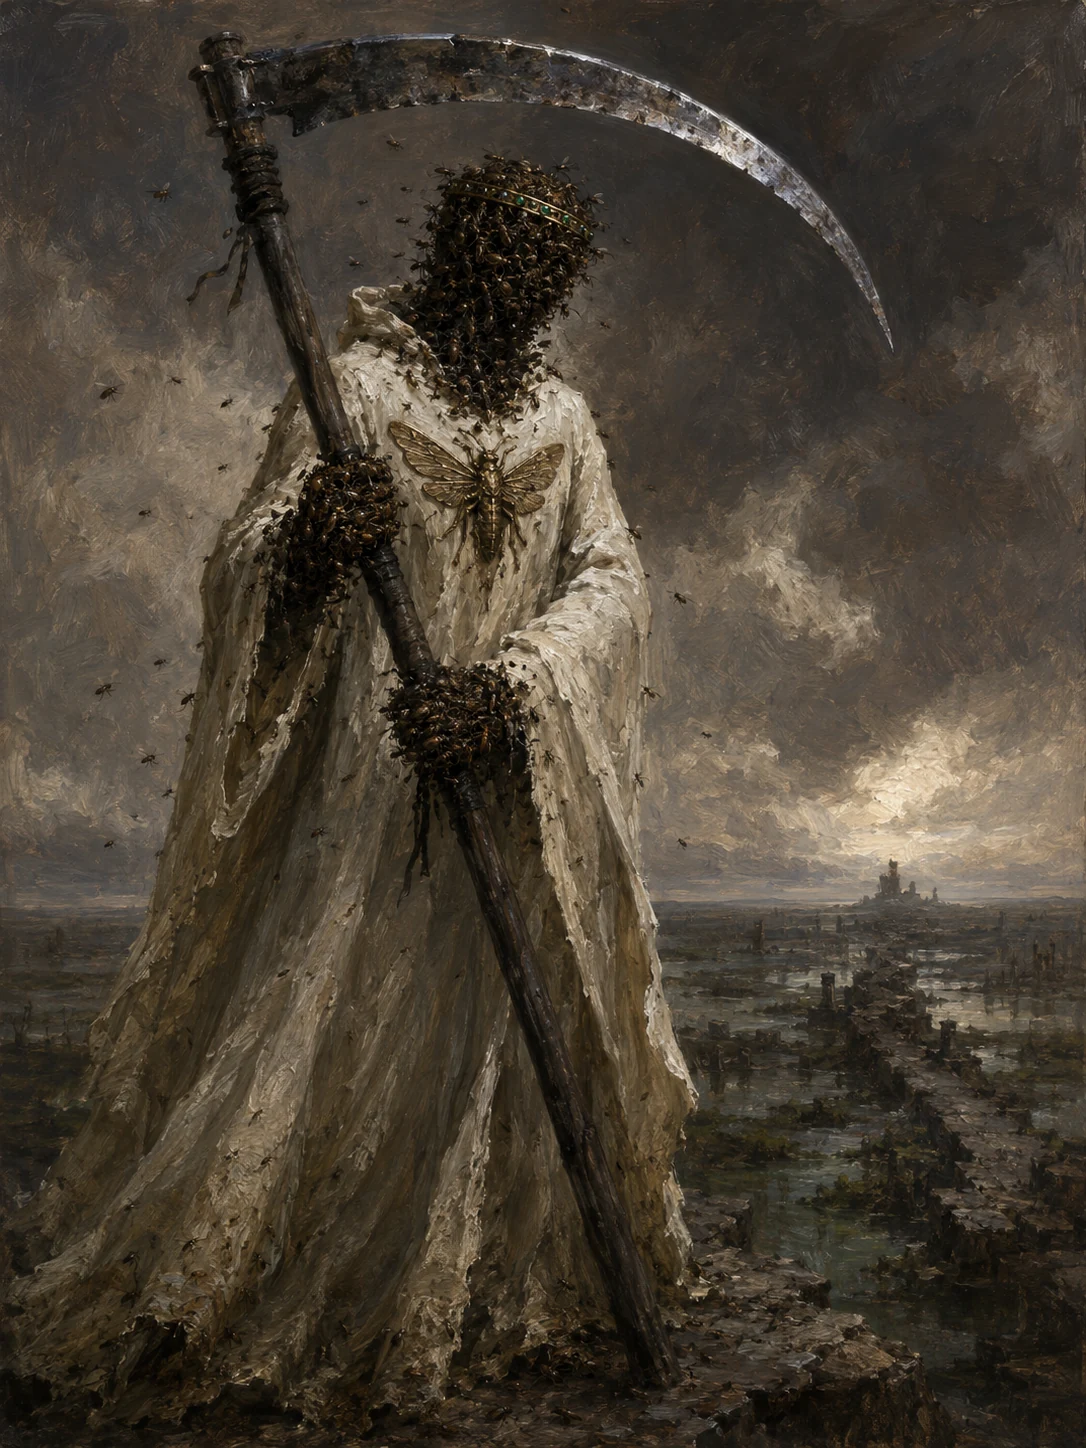
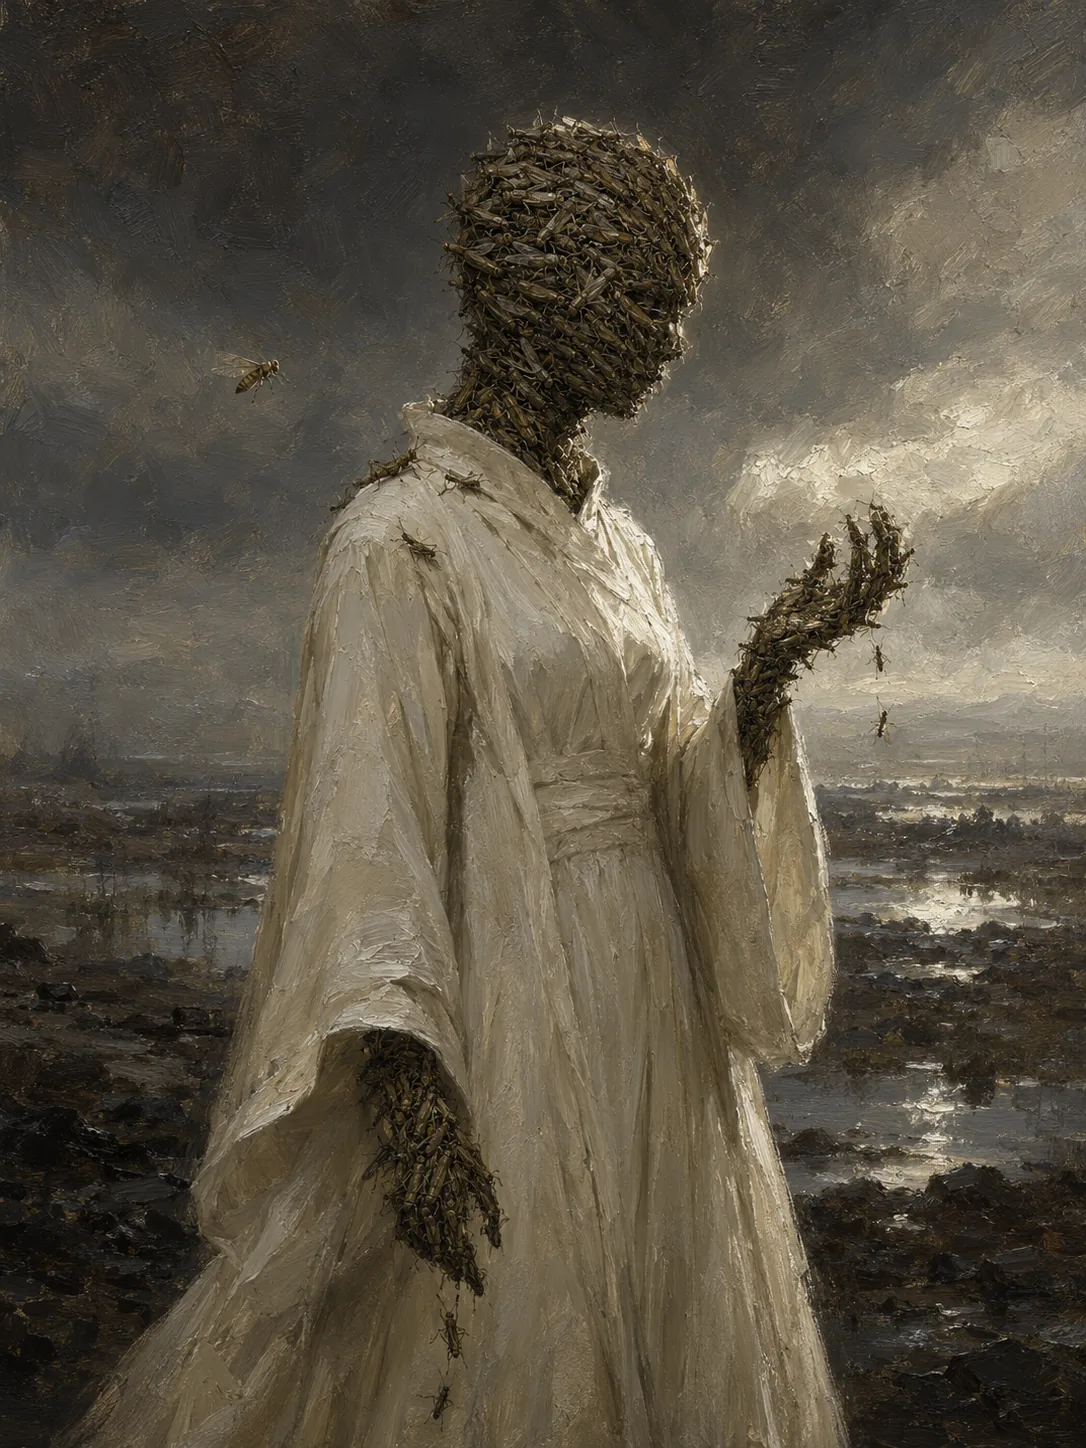
Give the Plagued One the portrait Matt picked
Matt swapped the reference mid-shoot on the Ch. XI mirror scene and kept
the other render of her, so the cast portrait follows. The new file is
byte-identical to the one dropped in the earlier merge (7b53f4f) -- this
reinstates it under the established path, so index.html and data.js need
no change and the Red Swarm faction grouping is preserved.

Rewrote the CANON row to describe the portrait that now exists rather than
the one that doesn't. The superseded version's two-handed scythe, bronze
headband set with green stones, and Deskari locust device on the breast are
gone: she carries and wears nothing, and the row says so explicitly so the
old details are not reintroduced from memory. Nothing in the prose depended
on them -- the scythes in Book III are Vorimeraak's and the spectral one
off the blade barrier, neither of them hers.

Restored from the earlier row: the locusts as ordinary matte desert locusts
rather than generic dark insects, the hands whose fingers come apart toward
the fingertips, the flag on the one loose insect at upper left that reads as
a wasp, and the negation-blindness warning about her Avoid line.

New, and learned today: her canonical bearing -- unhurried, patient,
proprietary -- is a STANDING PORTRAIT register and must not be carried into
a fight. Putting it in a combat prompt alongside the standing portrait as a
reference produced a serene figure holding out a limp hand in the middle of
[…]

diff --git a/characters/CANON.md b/characters/CANON.md
@@ -70,7 +70,7 @@ kit guide disagree, the kit guide wins.
 | **Adara Seln** | [`adara-seln.webp`](adara-seln.webp) | The Marchlands Expedition | Human woman of **twenty** — **dark-complexioned**, with dark hair worn in **braids gathered up off the neck**, brown eyes, and the careful upright posture of someone who learned early that presence matters. **Ink permanently under her fingernails from copying prayers.** Sarenrae's colours — a **gold-yellow tabard over a rust-red robe, blue cloak** — and the **silver sun-face holy symbol on a long chain that she touches while thinking**. Composed and serious; never girlish, never martial. |
 | **Brix Copperfinch** | [`brix-copperfinch.webp`](brix-copperfinch.webp) | The Marchlands Expedition | Gnome man of **a hundred and twelve** — three feet tall, **wild white hair**, a large nose, bright unfocused eyes and a delighted crooked smile. **Small in stature and unmistakably a gnome, never a short old human.** Patched blue-and-green robes with **pockets sewn into every available surface, all of them full** — scrolls, vials, quills, a pocket watch — a gold sunburst of Sarenrae at his chest, and an open journal in his hands. Never dignified, never still. |
 | **Oswin Tall** | [`oswin-tall.webp`](oswin-tall.webp) | The Marchlands Expedition | Human man of **thirty-eight** — **five foot two and compactly solid**, the name a joke. **Blond going grey**, blue eyes, clean-shaven, a **perpetually sunburned nose**. Patched blue work tunic, canvas apron, work gloves, tool belt, and the **battered toolbag he carries the way others carry a weapon**; a small silver Sarenrae sun at his throat. A plain workman, never a priest and never armed. |
-| **The Plagued One** | [`the-plagued-one.webp`](the-plagued-one.webp) | The Red Swarm | **NOT A PERSON.** A worm that walks: a dense living swarm of dark locusts holding itself in the shape of a tall woman — **ordinary human size, about five foot eight, never colossal.** **Everywhere skin should be there are INSECTS CRAWLING OVER OTHER INSECTS**, layered many deep, holding the silhouette. **THE FACE IS MADE OF LOCUSTS** — a woman-shaped head with **no skin, no eyes, no mouth and no skull**, the insects packed into the shape of features and boiling fastest across the face. **At the end of each sleeve there is NO HAND, only a hand-shaped fistful of vermin** clenched into a gripping fist. Loose locusts crawl from the collar and cuffs and circle her in the air. **Long floor-length ROBES OF DIRTY OFF-WHITE AND BONE**, hood thrown back — **the robe is the brightest thing in any frame she appears in and carries the single luminous accent.** On the breast, **Deskari's device in tarnished bronze: a locust with spread wings.** A plain **bronze headband set with small green gemstones** circles the brow of the swarm-head, resting on nothing. She grips a **long two-handed scythe** — dark leather-bound haft, long sweeping curved blade of pitted stained dark iron. **She has no eyes, so her attention must be carried by the ANGLE OF THE HEAD and by the swarm agitating hardest wherever she is looking.** *Avoid:* `a human face, visible skin, eyes, a mouth, a skull, a skeleton, a lich, a grim reaper, a black robe, a dark hood with glowing eyes in it, glowing red eyes, wings, a colossal or giant figure`. |
+| **The Plagued One** | [`the-plagued-one.webp`](the-plagued-one.webp) | The Red Swarm | **NOT A PERSON.** A **Worm-That-Walks** — a caster of terrible reach who raised the **Red Swarm** to hunt the marked children of the **Riftwardens**, and kept a ledger of the ones she took. **FEMALE, she/her.** Killed on the mesa above the causeway west of the **Gray Road** (Book III Ch. XI), where she gave up the pretense of a body and came apart into the swarm she had always been, and **Varic**'s ***Flamestrike*** burned her out of the world. **⚠ THE PORTRAIT WAS REPLACED IN AUG 2026 (Matt's pick) AND THIS ROW NOW FOLLOWS IT.** The superseded version carried a two-handed scythe, a bronze headband set with green stones, and Deskari's locust device in bronze on the breast; **none of those are canon — she carries and wears nothing.** **SHE IS MADE OF LOCUSTS AND THE HEAD IS THE WHOLE DESIGN.** Where her head should be there is a **dense living mass of locusts** — hundreds of them, packed body against body and **crawling over one another in layers**, holding the shape of a woman's head and slender neck. Her brow, cheekbones and jawline exist **only as gentle swells and hollows in the packed insects**, suggested and never resolved: the shape reads as a head while the surface is entirely insects and constantly in motion. The mass is **continuous and complete, locusts all the way across from the crown down to her collar.** A few loose ones crawl onto her shoulders and cling to the cloth. **THE HANDS MATCH THE HEAD:** at the end of each wide sleeve the same locusts hold the shape of a **slender hand**, the fingers formed of packed insects, their outlines **softening and coming apart toward the fingertips**, with two or three dropping loose and falling away below. **The locusts are ORDINARY DESERT LOCUSTS and must read as locusts** — long segmented bodies about two inches, **matte dry chitin** in dull brown, sour olive-green and grey-tan, folded membranous wings laid flat along the back, big hooked jumping hind legs, short antennae. Matte and dusty, never shiny. ⚠ **The single loose insect flying at upper left in the portrait is banded yellow-and-black and reads as a WASP — that is drift, not canon.** Put `bees, wasps, hornets, flies, ants, beetles, butterflies, moths` in the Avoid line of anything that puts a loose insect in the air near her. **DRESS:** long, heavy, **floor-length layered robes of plain undyed BONE-WHITE and ivory linen** — high-collared, wide loose sleeves, sober and **completely undecorated**, covering her throat to floor, hood thrown back. **No jewellery, no belt ornament, no holy symbol, no weapon, no staff, no book** — the ledger is a scene prop, not part of her. **The robe is the brightest cloth in any frame she appears in and carries the single luminous accent.** The cloth is whole and startlingly clean for the country she stands in, dust-stained only at the hem. It hangs on a **narrow-shouldered, upright female frame**, about **five foot eight** — **an ordinary woman's height and build, never a giant, never towering, never colossal.** **She has no eyes, so her attention must be carried by the ANGLE OF THE HEAD and by the swarm agitating hardest wherever she is looking.** **BEARING — the portrait register is UNHURRIED, PATIENT, PROPRIETARY INTEREST:** a collector considering a specimen she has waited a very long time to obtain. Head turned and tilted slightly **down and to one side**; spine straight, shoulders level and relaxed; one hand raised a little from the body, **palm turned upward, fingers loosely curled, as if weighing something.** Utterly still and in no hurry at all. ⚠ **THAT REGISTER IS FOR A STANDING PORTRAIT ONLY — DO NOT CARRY IT INTO A FIGHT.** *(Aug 2026, first roll of the Ch. XI mirror scene: "unhurried, patient and proprietary" in the prompt body, plus the standing portrait attached as a reference, produced a serene figure holding out a limp hand in the middle of a battle, and the whole picture went dead.)* In any combat frame, say explicitly that you want **her design from the reference but NOT her pose**, and write the lunge mechanically — driven forward off the back foot, shoulders low and leading, sleeves and robes whipping back, the casting arm punched out full length, loose locusts torn off her downwind. ⚠ **Write her POSITIVELY and keep loaded vocabulary out of BOTH halves of the prompt.** The first two attempts at this portrait failed outright at the service, and the difference was the `Avoid:` line: `skull, skeleton, bare bone, maggots, worms, nudity` sitting there as *exclusions* is counted as content. Describe the insect mass as a shape that is complete, and do not enumerate the human parts that are absent. *Avoid:* `bees, wasps, hornets, flies, ants, beetles, butterflies, moths, a beekeeper; a grim reaper, a lich, a black robe, a hood pulled up over the head, a dark hood with glowing eyes in it, glowing red eyes; a dark empty silhouette, a cloud of insects with no figure inside the robe; horns, wings on the woman herself, armour, a weapon, a scythe, a staff, a book, jewellery, a crown, a headband, a holy symbol; a colossal or towering figure; a posed portrait look, facing the viewer, looking at the viewer`. |
 | **Nisha Riles** | [`nisha-riles.webp`](nisha-riles.webp) | The Red Swarm | Half-elf woman, late twenties; the Swarm's lure as much as its bard. Slim and graceful, about five foot six. **Sleek straight BLACK hair**, glossy as ink, gathered over one shoulder. **AMBER-BROWN eyes.** Warm olive skin, unblemished. **Ears SHORT and only slightly tapered** — a half-elf, never a full elf. A charcoal wool cloak thrown back over a fitted **dark bottle-green doublet** and studded leather, high boots, a merchant's satchel on a strap across the chest, and a slender **rapier** at the hip. **HER MANDOLIN IS HER SIGNATURE AND IS ALWAYS PRESENT** — small, **ROUND-BACKED and BOWL-BODIED** with a short neck, a deep teardrop belly and pearl inlay at the soundhole; **never a flat-backed lute.** **The likeness anchor that matters most is the double reading:** a warm, open, genuinely charming smile on the mouth, and **eyes that do not match it** — cool, half-lidded, faintly amused, appraising. Both are true at once; never render her as an obvious villain, and never as guileless. ⚠ **Do not let her blur with [Mira Thistledance](mira-thistledance.webp)** — both are half-elf bards with a stringed instrument. The separators, which must be stated in any frame holding either: **Nisha = BLACK hair, AMBER eyes, a bowl-backed MANDOLIN. Mira = BROWN hair with silver chains, GREEN eyes, a LUTE.** *Avoid:* `red or copper hair, brown hair, green eyes, a lute, a flat-backed instrument, long sharply-pointed elf ears, a sneer, a scowl, a sinister glare`. |
 | **Vani Abraya** | [`vani-abraya.webp`](vani-abraya.webp) | The Red Swarm | Elf woman; the Plagued One's tracker and hunter, who gave her whole life to the bow. About five foot nine — **lean, hard and rangy**, weathered sun-darkened skin, hollows under the cheekbones. **Long sharply-tapered elf ears.** **Dark tangled hair pulled back roughly and stuck through with a bone pin.** Pale grey-green eyes; **a thin old scar across one cheekbone.** A battered dark steel **chain shirt** over ragged brown leathers, **wrapped forearms**, mud to the knee, a quiver at the hip. **Both her weapons are always on her:** a tall **composite longbow** and a long slender **elven curve blade**. **Bearing: predatory, feral and half-starved** — she abandoned civilization decades ago and it shows. **Never noble, never a graceful or ethereal high elf.** *(Archery note: the registry portrait deliberately shows the bow slack and unnocked. Any drawn-bow image of her must follow the archery rules in [`../bible/04-visual-style-guide.md`](../bible/04-visual-style-guide.md) — one continuous string, a full-length nocked arrow, the three-fingertip draw.)* |
 | **Bidha Kesh** | [`bidha-kesh.webp`](bidha-kesh.webp) | The Red Swarm | Human woman in her forties; the Plagued One's personal shield. About five foot seven and **immensely solid, heavy through the shoulders, built like a door.** Dark hair **cropped brutally short.** A broad, plain, weathered face; small rounded human ears; and **deep old scars — three ragged parallel claw scars dragged from the left temple across the cheek to the jaw, and a puckered burn along the same side of the neck.** **BATTERED FULL PLATE in dull, dark, unpolished blackened steel** — deeply dented, mud-caked, fully covering (gorget, pauldrons, vambraces, faulds, armoured legs) and **entirely plain: NO heraldry, NO holy symbol, NO gold, NO ornament of any kind.** Heavy **spiked gauntlets**, a small round **buckler**, a plain longsword. **Never a helmet** — the scarred face is the likeness. ⚠ **She is the deliberate visual opposite of the crusader women** — never polished silver-white plate, never gold filigree, never a device on the breast; that register belongs to [Iomedae](iomedae.webp), [Elara](elara-dawnstrider.webp) and [Kamilo](kamilo-dann.webp), and Bidha must not drift toward it. **Bearing: immovable, exhausted, absolutely sworn** — jaw set, mouth a hard flat line, eyes steady, heavy-lidded and unafraid, weight settled as though she has decided to die exactly where she stands. |
